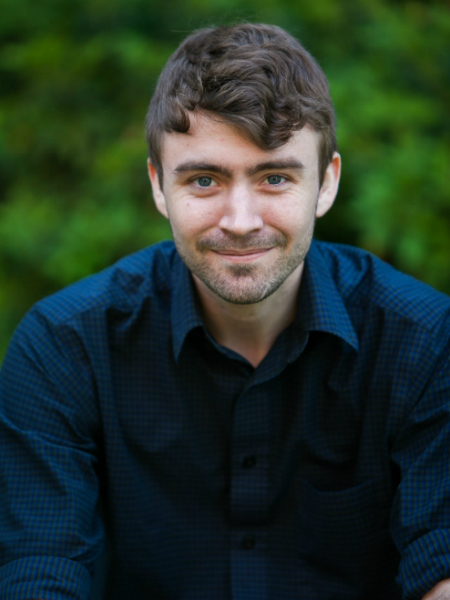
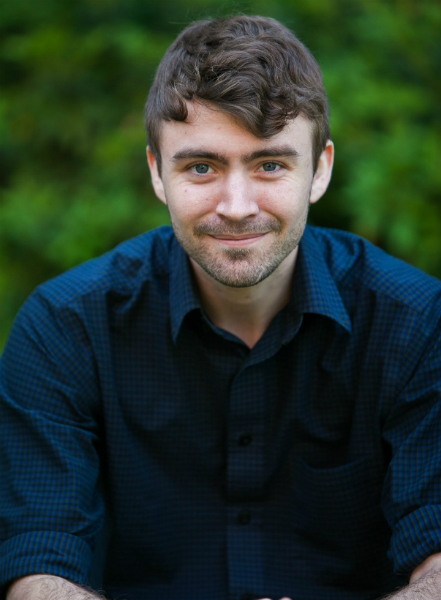
pic styles

diff --git a/assets/css/style.css b/assets/css/style.css
@@ -123,7 +123,7 @@ a:focus {
 }
 
 .profile-pic {
-     width: 32%;
+     width: 30%;
  }
 
 .profile-container {
